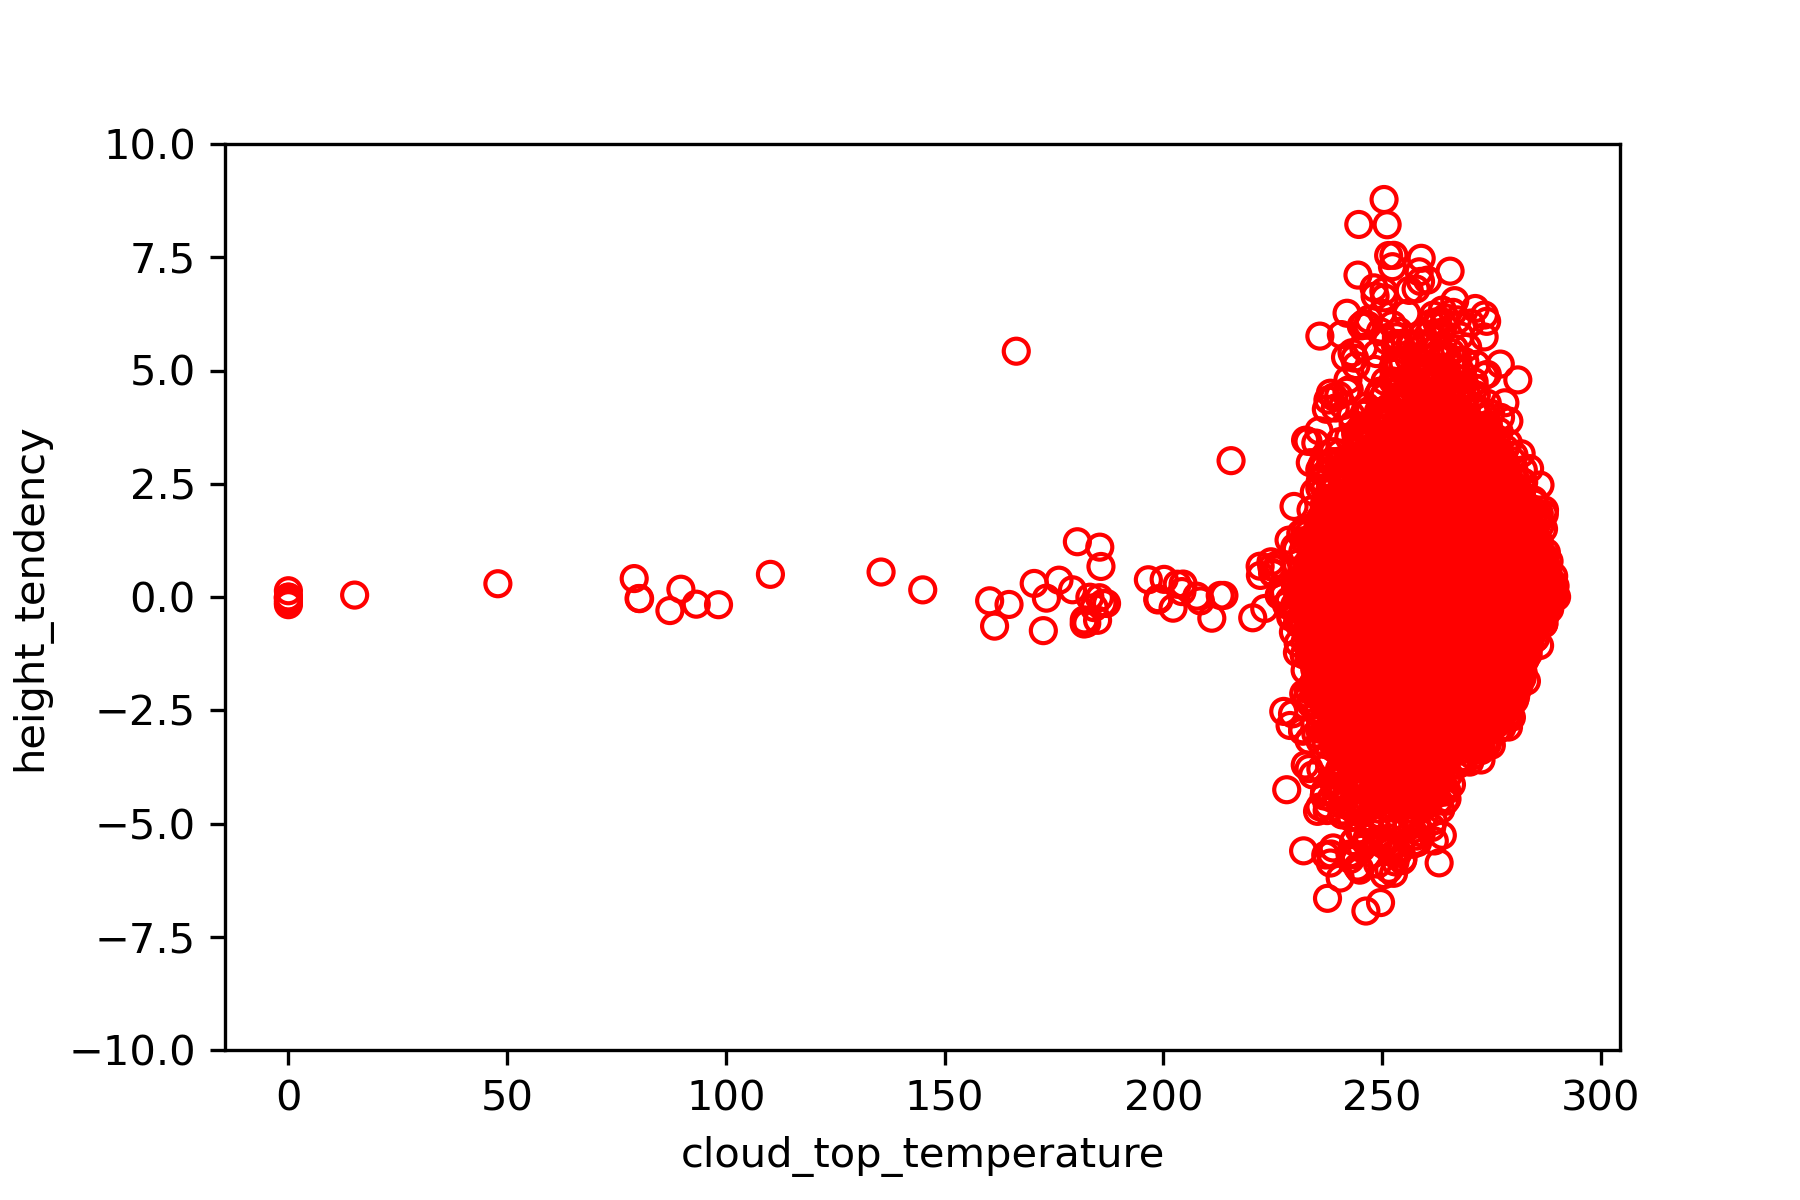
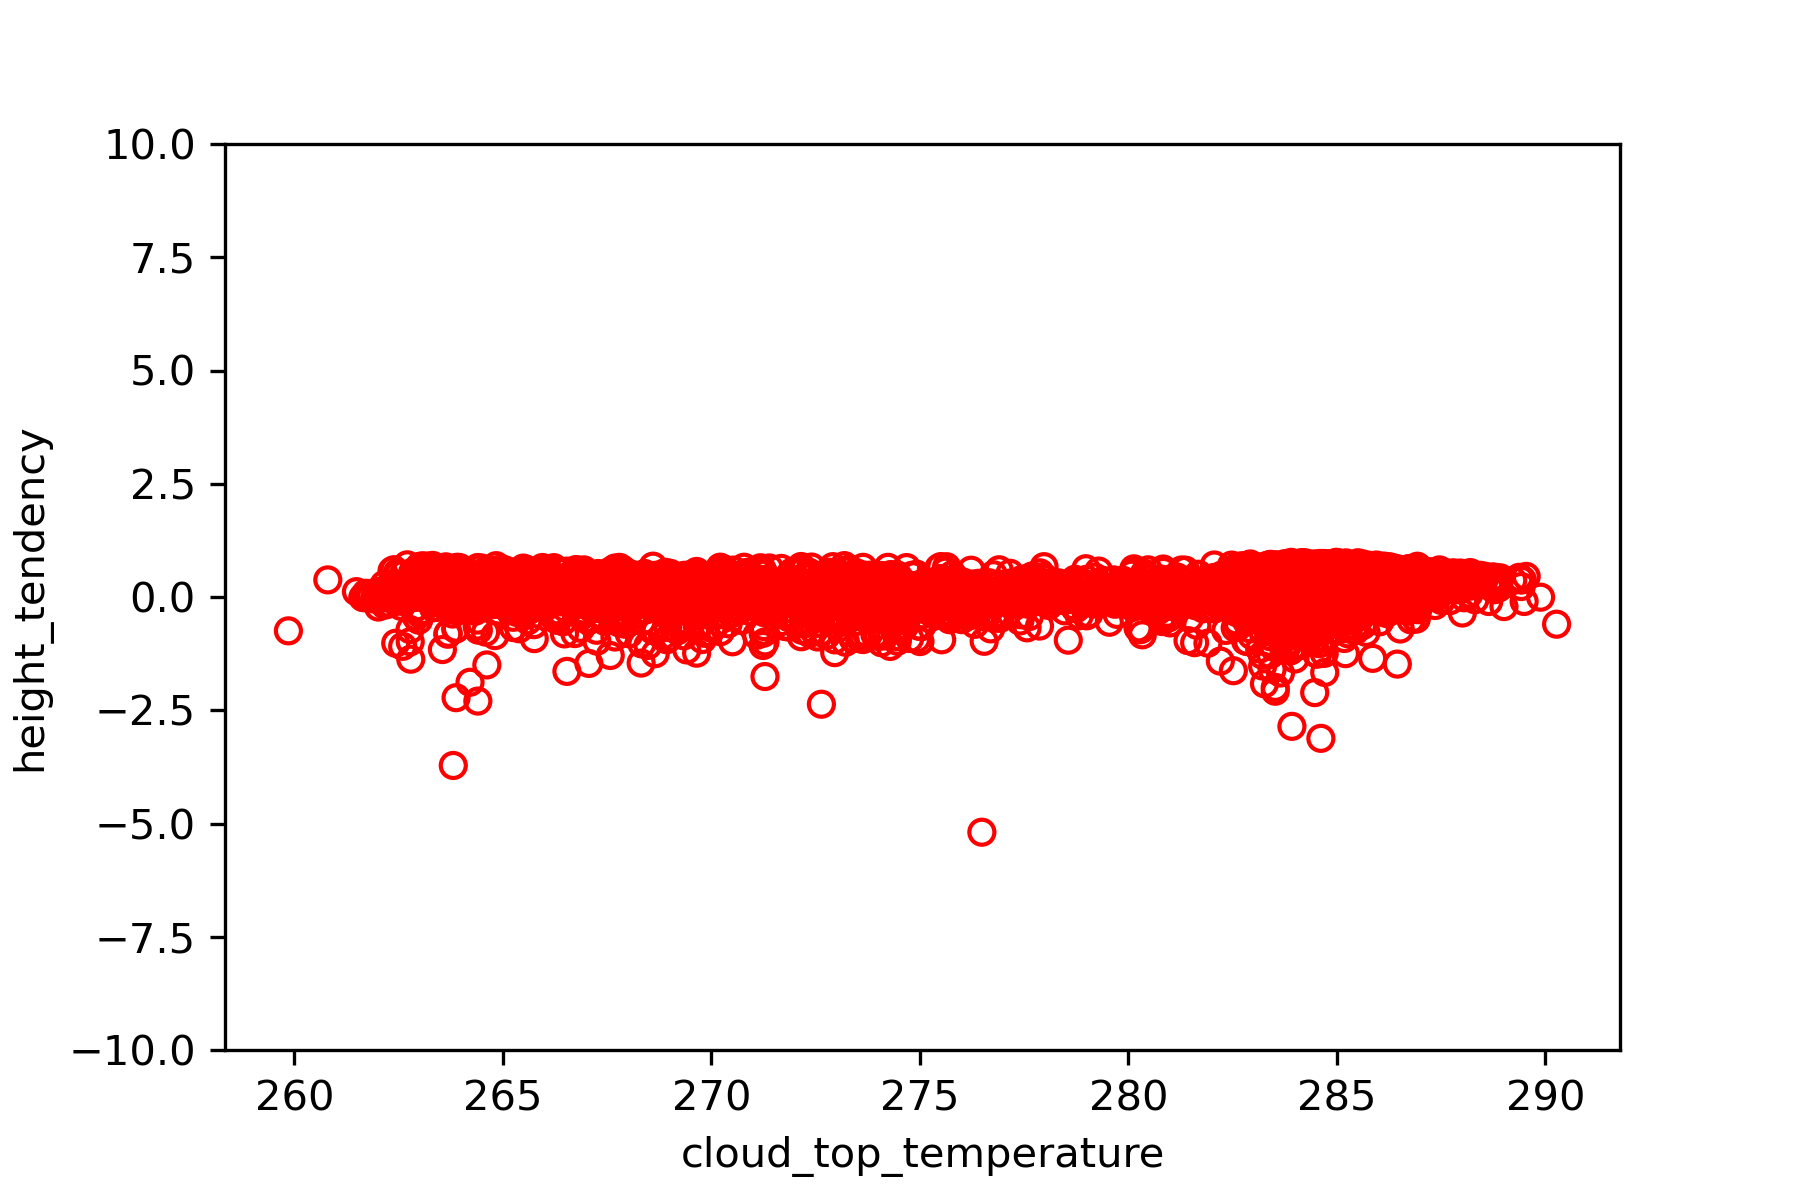
fixed height velocity

diff --git a/src/calculators.py b/src/calculators.py
@@ -143,10 +143,12 @@ def implot(ds, values, vmin, vmax, date,ax, fig, cmap):
     return ax, fig, im
 
 
-def calc(ds_unit, frame0, nframe0):
+def calc(ds_unit, frame0, nframe0, height0, pressure0):
      frame=np.squeeze(ds_unit[flow_var].values)
-     mask=np.isnan(frame)
      frame=np.nan_to_num(frame)
+     height=np.squeeze(ds_unit['cloud_top_height'].values)
+     mask=np.isnan(height)
+     pressure=np.squeeze(ds_unit['cloud_top_pressure'].values)
      nframe = cv2.normalize(src=frame, dst=None,
                             alpha=0, beta=255, norm_type=cv2.NORM_MINMAX, dtype=cv2.CV_8UC1)
      #need to test this 
@@ -154,14 +156,24 @@ def calc(ds_unit, frame0, nframe0):
      flowd = optical_flow.calc(frame0, frame, None)
      
      # ####
-     print('mean error:')
-     frame0d=warp_flow(frame0.copy(),flowd.copy())
-     dz=frame-frame0d
-     pz=frame-frame0
-     print(np.mean(abs(frame0-frame0d)))
+  
+     height0=np.nan_to_num(height0)
+     height0d=warp_flow(height0.copy(),flowd.copy())
+     pressure0d=warp_flow(pressure0.copy(),flowd.copy())
+     dz=height-height0d
+     pz=height-height0
+     dp=pressure-pressure0d
+     pp=pressure-pressure0
      dz[mask]=np.nan
+     dp[mask]=np.nan
+     pp[mask]=np.nan
      pz[mask]=np.nan
+     print('mean error:')
+     print(np.nanmean(abs(pp)))
+        
      dzdt=1000/1800*dz
+     dpdt=1/1800*dp
+     pppt=1/1800*pp
      pzpt=1000/1800*pz
      
      ds_unit['flow_x']=(('time','lat','lon'),np.expand_dims(flowd[:,:,0],axis=0))
@@ -169,18 +181,22 @@ def calc(ds_unit, frame0, nframe0):
      ds_unit=wind_calculator(ds_unit)
      ds_unit['height_tendency']=(('time','lat','lon'),np.expand_dims(pzpt,axis=0))
      ds_unit['height_vel']=(('time','lat','lon'),np.expand_dims(dzdt,axis=0))
-     ds_unit['frame0']=(('time','lat','lon'),np.expand_dims(frame0,axis=0))
-     ds_unit['frame0d']=(('time','lat','lon'),np.expand_dims(frame0d,axis=0))
+     ds_unit['pressure_vel']=(('time','lat','lon'),np.expand_dims(dpdt,axis=0))
+     ds_unit['pressure_tendency']=(('time','lat','lon'),np.expand_dims(pppt,axis=0))
+     ds_unit['height0']=(('time','lat','lon'),np.expand_dims(height0,axis=0))
+     ds_unit['height0d']=(('time','lat','lon'),np.expand_dims(height0d,axis=0))
      print('frame0')
-     map_plotter(ds_unit, 'frame0', 'frame0')
+     map_plotter(ds_unit, 'height0', 'height0')
      print('frame0d')
-     map_plotter(ds_unit, 'frame0d', 'frame0d')
-     map_plotter(ds_unit, flow_var, flow_var)
+     map_plotter(ds_unit, 'height0d', 'height0d')
+     map_plotter(ds_unit, 'cloud_top_height', 'cloud_top_height')
 
      frame0=frame
+     pressure0=pressure
+     height0=height
      nframe0=nframe
      
-     return ds_unit, frame0
+     return ds_unit, frame0, height0, pressure0
  
 
 def wind_calculator(ds):
@@ -207,8 +223,7 @@ def wind_calculator(ds):
     
 def interpolation(ds_s,ds_m): 
     print('interpolating...')
-    print(ds_s['cloud_top_pressure'].max())
-    print(ds_m['w'])
+    print(ds_m)
     t_function=rgi(points=(ds_m['level'].values, ds_m['latitude'].values, 
                            ds_m['longitude'].values),values= np.squeeze(ds_m['t'].values),
                    bounds_error=False, fill_value=np.nan)
@@ -216,10 +231,21 @@ def interpolation(ds_s,ds_m):
                                ds_m['latitude'].values, ds_m['longitude'].values),
                        values= np.squeeze(ds_m['w'].values),bounds_error=False, 
                        fill_value=np.nan)
-    df=ds_s[['cloud_top_pressure','cloud_top_height']].to_dataframe().reset_index()
+    
+    v_function=rgi(points=(ds_m['level'].values, ds_m['latitude'].values, 
+                          ds_m['longitude'].values),
+                  values= np.squeeze(ds_m['v'].values),
+                  bounds_error=False, fill_value=np.nan)
+    u_function=rgi(points=(ds_m['level'].values,
+                           ds_m['latitude'].values, ds_m['longitude'].values),
+                   values= np.squeeze(ds_m['u'].values),
+                   bounds_error=False, fill_value=np.nan)
+    df=ds_s[['cloud_top_pressure','cloud_top_height','height_vel','height_tendency','pressure_vel','pressure_tendency']].to_dataframe().reset_index()
     print(df['cloud_top_pressure'].max())
     df['omega']=omega_function(df[['cloud_top_pressure','lat', 'lon']].values)
     df['t']=t_function(df[['cloud_top_pressure','lat', 'lon']].values)
+    df['u']=u_function(df[['cloud_top_pressure','lat', 'lon']].values)
+    df['v']=v_function(df[['cloud_top_pressure','lat', 'lon']].values)
 
     omega=df['omega'].to_numpy()*units('Pa/s')
     pressure=df['cloud_top_pressure'].to_numpy()*units('hPa')
@@ -230,6 +256,19 @@ def interpolation(ds_s,ds_m):
     ds_inter=xr.Dataset.from_dataframe(df)
     print(ds_inter)
     return ds_inter
+
+def omega_calculator(ds, label):
+    df=ds.to_dataframe()
+    df=df.reset_index()
+    omega=df[label].to_numpy()*units('Pa/s')
+    pressure=df['cloud_top_pressure'].to_numpy()*units('hPa')
+    t=df['t'].to_numpy()*units('K')
+    df[label]=metpy.calc.vertical_velocity(omega, pressure, t )
+    df=df.dropna()
+    df=df.set_index(['lat', 'lon','time'])
+    ds=xr.Dataset.from_dataframe(df)
+    return ds
+    
 
 def scatter2d(ds, title, label, xedges, yedges):
     print('scattering...')
@@ -275,4 +314,9 @@ def hist2d(ds, title, label, xedges, yedges):
 
     plt.savefig(title+'_his2d.png', dpi=300)
     plt.close()
-
+    
+def marginal(ds, label):
+    ds[label].plot.hist(bins=100)
+    plt.show()
+    plt.close()
+    plt.savefig(main.PLOT_PATH + label +'_marginal.png', dpi=300)

diff --git a/src/main.py b/src/main.py
@@ -17,7 +17,7 @@ import pandas as pd
 
 PLOT_PATH='../data/processed/plots/'
 NC_PATH='../data/processed/netcdf/'
-flow_var='temperature_ir'
+flow_var='cloud_top_pressure'
 DATE_FORMAT="%m-%d-%Y-%H:%M:%S"
 
 
@@ -30,7 +30,8 @@ def preprocessing():
     frame0=np.nan_to_num(frame0)
     nframe0 = cv2.normalize(src=frame0, dst=None,
                             alpha=0, beta=255, norm_type=cv2.NORM_MINMAX, dtype=cv2.CV_8UC1)
-    
+    height0=np.squeeze(ds_unit['cloud_top_height'].values)
+    pressure0=np.squeeze(ds_unit['cloud_top_pressure'].values)
     files.pop(0)
     print(len(files))
  
@@ -39,7 +40,7 @@ def preprocessing():
         ds_unit=xr.open_dataset(file)
         date=ds_unit['time'].values
         print(date)
-        #ds_unit, frame0=calc.calc(ds_unit,frame0,nframe0)
+        ds_unit, frame0, height0, pressure0 =calc.calc(ds_unit,frame0,nframe0, height0, pressure0)
         print(ds_unit)
       
         if not ds_total:
@@ -47,7 +48,7 @@ def preprocessing():
         else:
             ds_total = xr.concat([ds_total, ds_unit], 'time')
     date= pd.to_datetime(str(date[0]))
-    ds_total.to_netcdf(NC_PATH+'pressure_output.nc')
+    ds_total.to_netcdf(NC_PATH+'january_output.nc')
    
     return ds_total
 
@@ -66,7 +67,10 @@ def plot_loop(ds, var, func, vmin, vmax, cmap,scatterv):
     
 def post_plots(ds):
     temp_var='cloud_top_temperature'
-    ds['vel_error']=ds['height_vel']-ds['height_tendency']
+    print(abs(ds['vel_error']).mean())
+    print(abs(ds['height_vel']).mean())
+    print(abs(ds['height_tendency']).mean())
+ 
     # calc.hist2d(ds, PLOT_PATH+ 'velheight', ['cloud_top_height','height_vel'], [0,10], [-0.25,0.25])
     # calc.hist2d(ds,PLOT_PATH+ 'veltemp', [temp_var,'height_vel'], [220,290], [-1,1])
     # calc.hist2d(ds, PLOT_PATH+ 'tendtemp', [temp_var,'height_tendency'], [220,290], [-1,1])
@@ -80,22 +84,19 @@ def post_plots(ds):
     ds=ds.coarsen(lat=25, boundary='trim').mean().coarsen(lon=25, boundary='trim').mean()
 
     calc.scatter2d(ds, PLOT_PATH+ 'veltemp', [temp_var,'height_vel'], [200,240], [-1,1])
-    calc.scatter2d(ds, PLOT_PATH+ 'velheight', ['cloud_top_height','height_vel'], [200,240], [-10,50])
+    calc.scatter2d(ds, PLOT_PATH+ 'velheight', ['cloud_top_height','height_vel'], [200,240], [-2,2])
+    calc.scatter2d(ds, PLOT_PATH+ 'vel_error', ['cloud_top_height','vel_error'], [200,240], [-2,2])
     calc.scatter2d(ds,PLOT_PATH+  'tendtemp', [temp_var,'height_tendency'], [200,240], [-10,10])
-    calc.scatter2d(ds,PLOT_PATH+  'tendheight', ['cloud_top_height','height_tendency'], [200,240], [-10,10])
+    calc.scatter2d(ds,PLOT_PATH+  'tendheight', ['cloud_top_height','height_tendency'], [200,240], [-2,2])
     calc.scatter2d(ds, PLOT_PATH+ 'acctemp', [temp_var,'height_acceleration'], [200,240], [-1e-2,1e-2])
     calc.scatter2d(ds, PLOT_PATH+ 'accheight', ['cloud_top_height','height_acceleration'], [200,240], [-1e-2,1e-2])
     calc.scatter2d(ds, PLOT_PATH+ 'acctend', ['cloud_top_height','height_acceleration_e'], [200,240], [-1e-2,1e-2])
-
-    calc.scatter2d(ds, PLOT_PATH+ 'speedheight', ['cloud_top_height','speed'], [200,240], [-1e-4,1e-4])
-    calc.scatter2d(ds, PLOT_PATH+ 'speedvel', ['speed','height_vel'], [200,240], [-1e-4,1e-4])
-    calc.scatter2d(ds, PLOT_PATH+ 'speedtend', ['speed','height_tendency'], [200,240], [-1e-4,1e-4])
     calc.scatter2d(ds, PLOT_PATH+ 'moistvel', ['belwp','height_vel'], [200,240], [-10,10])
     calc.scatter2d(ds, PLOT_PATH+ 'moisl', ['belwp','height_vel'], [200,240], [-10,10])
 
     calc.scatter2d(ds, PLOT_PATH+ 'moistheight', ['belwp','cloud_top_height'], [200,240], [-10,10])
-
-    
+    calc.scatter2d(ds, PLOT_PATH+ 'pvelheight', ['cloud_top_height','pressure_vel'], [200,240], [-2,2])
+    calc.scatter2d(ds, PLOT_PATH+ 'ptendency', ['cloud_top_height','pressure_tendency'], [200,240], [-2,2])
 
 
 def analysis(ds):
@@ -104,16 +105,26 @@ def analysis(ds):
 
     #ds=ds.coarsen(lat=100, boundary='trim').mean().coarsen(lon=100, boundary='trim').mean()
     ds=ds.coarsen(time=3,boundary='trim').mean()
-    ds['speed']=np.sqrt(ds['u']**2+ds['v']**2)
-    print(ds['speed'].mean())
     ds['height_acceleration']=ds['height_vel'].diff('time')/1800
     ds['height_acceleration_e']=ds['height_tendency'].diff('time')/1800    
+    ds['vel_error']=ds['height_vel']-ds['height_tendency']
+       
+    
+    calc.marginal(ds,'vel_error')
+    calc.marginal(ds,'height_vel')
+    calc.marginal(ds,'height_tendency')
+    calc.marginal(ds,'pressure_tendency')
+    calc.marginal(ds,'pressure_vel')
+   
 
+    
+    
+    ds=ds.where(ds['cloud_top_pressure']>850)
     post_plots(ds)
-
     
     #plot_loop(ds, 'height_acceleration', calc.quiver_hybrid, -0.0001, 0.0001,'RdBu')
     #plot_loop(ds, 'height_acceleration_e', calc.quiver_hybrid, -0.0001, 0.0001,'RdBu')
+    plot_loop(ds, 'cloud_top_pressure', calc.quiver_hybrid, 200, 1000,'viridis','_an')
     plot_loop(ds, 'temperature_ir', calc.quiver_hybrid, 220, 290,'viridis','_an')
     plot_loop(ds, 'height_vel', calc.quiver_hybrid, -1, 1,'RdBu','height_vel_an')
     plot_loop(ds, 'height_tendency', calc.quiver_hybrid, -1,1,'RdBu', 'height_tendency_an')
@@ -121,9 +132,9 @@ def analysis(ds):
     
 
 def main():
-    ds= preprocessing()
-    #ds=xr.open_dataset(NC_PATH+'01-06-2021-23:38:20_output.nc')
-    #analysis(ds)
+    #ds= preprocessing()
+    ds=xr.open_dataset(NC_PATH+'january_output.nc')
+    analysis(ds)
 
 if __name__ == '__main__':
     main()

diff --git a/src/model.py b/src/model.py
@@ -8,12 +8,13 @@ Created on Tue May 18 17:53:57 2021
 
 import xarray as xr
 import calculators as calc
+import matplotlib.pyplot as plt
 
 
 
-def main():
-    ds_m=xr.open_dataset('../data/raw/reanalysis/omega_T_01_06_21.nc')
-    ds_s=xr.open_dataset('../data/processed/netcdf/pressure_output.nc')
+def interpolation():
+    ds_m=xr.open_dataset('../data/raw/reanalysis/omega_T_U_V_01_06_21.nc')
+    ds_s=xr.open_dataset('../data/processed/netcdf/january_output.nc')
     
     ds_m = ds_m.assign_coords(longitude=(((ds_m.longitude + 180) % 360) - 180))
     ds_m=ds_m.sortby('latitude').sortby('longitude')
@@ -33,6 +34,8 @@ def main():
         ds_m_unit=ds_m.sel(time=time, method='nearest')
         ds_s_unit=ds_s.sel(time=time, method='nearest')
         ds_inter=calc.interpolation(ds_s_unit,ds_m_unit)
+        ds_inter=calc.omega_calculator(ds_inter,'pressure_vel')
+        ds_inter=calc.omega_calculator(ds_inter,'pressure_tendency')
         if ds_total:
             ds_total=xr.concat([ds_total,ds_inter], 'time') 
         else:
@@ -40,7 +43,49 @@ def main():
      
     print(ds_total)
     ds_total.to_netcdf('../data/processed/model.nc')
+    return ds_total
         
+
+
+
+def main():
+    ds_m=xr.open_dataset('../data/raw/reanalysis/omega_T_U_V_01_06_21.nc')
+    print(ds_m['w'])
+    #ds=interpolation()
+    ds=xr.open_dataset('../data/processed/model.nc')
+    ds['vel_error']=ds['height_vel']-ds['height_tendency']
+    ds['p_error']=ds['pressure_vel']-ds['pressure_tendency']
+    ds=ds.where(ds['cloud_top_pressure']>850)
+    
+    ds['entrainment']=ds['height_vel']-ds['w']
+    calc.marginal(ds,'entrainment')
+    calc.marginal(ds,'vel_error')
+    calc.marginal(ds,'height_vel')
+    calc.marginal(ds,'height_tendency')
+    calc.marginal(ds,'pressure_vel')
+    calc.marginal(ds,'pressure_tendency')
+    calc.marginal(ds,'w')
+    calc.marginal(ds,'omega')
+    # ds['entrainment'].plot.hist(bins=100)
+    # plt.show()
+    # plt.close()
+    # ds['entrainment'].plot.hist(bins=100)
+    # plt.show()
+    # plt.close()
+    # ds['height_vel'].plot.hist(bins=100)
+    # plt.show()
+    # plt.close()
+    # ds['height_tendency'].plot.hist(bins=100)
+    # plt.show()
+    # plt.close()
+    print(abs(ds['vel_error']).mean())
+    print(abs(ds['height_vel']).mean())
+    print(abs(ds['height_tendency']).mean())
+    print(abs(ds['entrainment']).mean())
+    print(abs(ds['w']).mean())
+    print(abs(ds['pressure_vel']).mean())
+    print(abs(ds['pressure_tendency']).mean())
+    print(abs(ds['p_error']).mean())
     
 
 

diff --git a/src/regridder.py b/src/regridder.py
@@ -13,7 +13,7 @@ from natsort import natsorted
 import glob
 from dateutil import parser
 
-files=natsorted(glob.glob('../data/raw/01_06/G16V04.0.ACTIV*'))
+files=natsorted(glob.glob('../data/raw/05_01/G16V04.0.ACTIV*'))
 for file in files:
     ds=xr.open_dataset(file)
     ds =ds.rename({'latitude':'lat', 'longitude':'lon'})
@@ -27,10 +27,12 @@ for file in files:
     ds_out = xr.Dataset({'lat': (['lat'], new_lat), 'lon': ('lon', new_lon), })
     regridder = xe.Regridder(ds, ds_out, 'bilinear',reuse_weights=True)
     dr_out = regridder(ds[['temperature_ir','cloud_top_height','cloud_top_temperature','belwp','cloud_top_pressure']])
-    date=np.array([parser.parse(ds.processed_date).replace(tzinfo=None)])
+    date_s=ds.processed_date
+    date_s=date_s.replace("00,", "01,")
+    date=np.array([parser.parse(date_s).replace(tzinfo=None)])
     dr_out = dr_out.expand_dims('time')
     dr_out = dr_out.assign_coords(time=date)
     filename=date.item().strftime('%Y-%m-%d-%H-%M')+'.nc'
     print(filename)
-    dr_out.to_netcdf('../data/interim/01_06/'+ filename)
+    dr_out.to_netcdf('../data/interim/05_01/'+ filename)
     #print(dr_out)

diff --git a/data/raw/reanalysis/era5.py b/data/raw/reanalysis/era5.py
@@ -7,7 +7,7 @@ c.retrieve(
     {
         'product_type': 'reanalysis',
         'format': 'netcdf',
-        'variable': ['vertical_velocity','temperature',],
+        'variable': ['vertical_velocity','temperature','u_component_of_wind', 'v_component_of_wind',],
         'pressure_level': [
             '1', '2', '3',
             '5', '7', '10',
@@ -37,4 +37,4 @@ c.retrieve(
             '21:00', '22:00', '23:00',
         ],
     },
-    'omega_T_01_06_21.nc')
+    'omega_T_U_V_01_06_21.nc')
